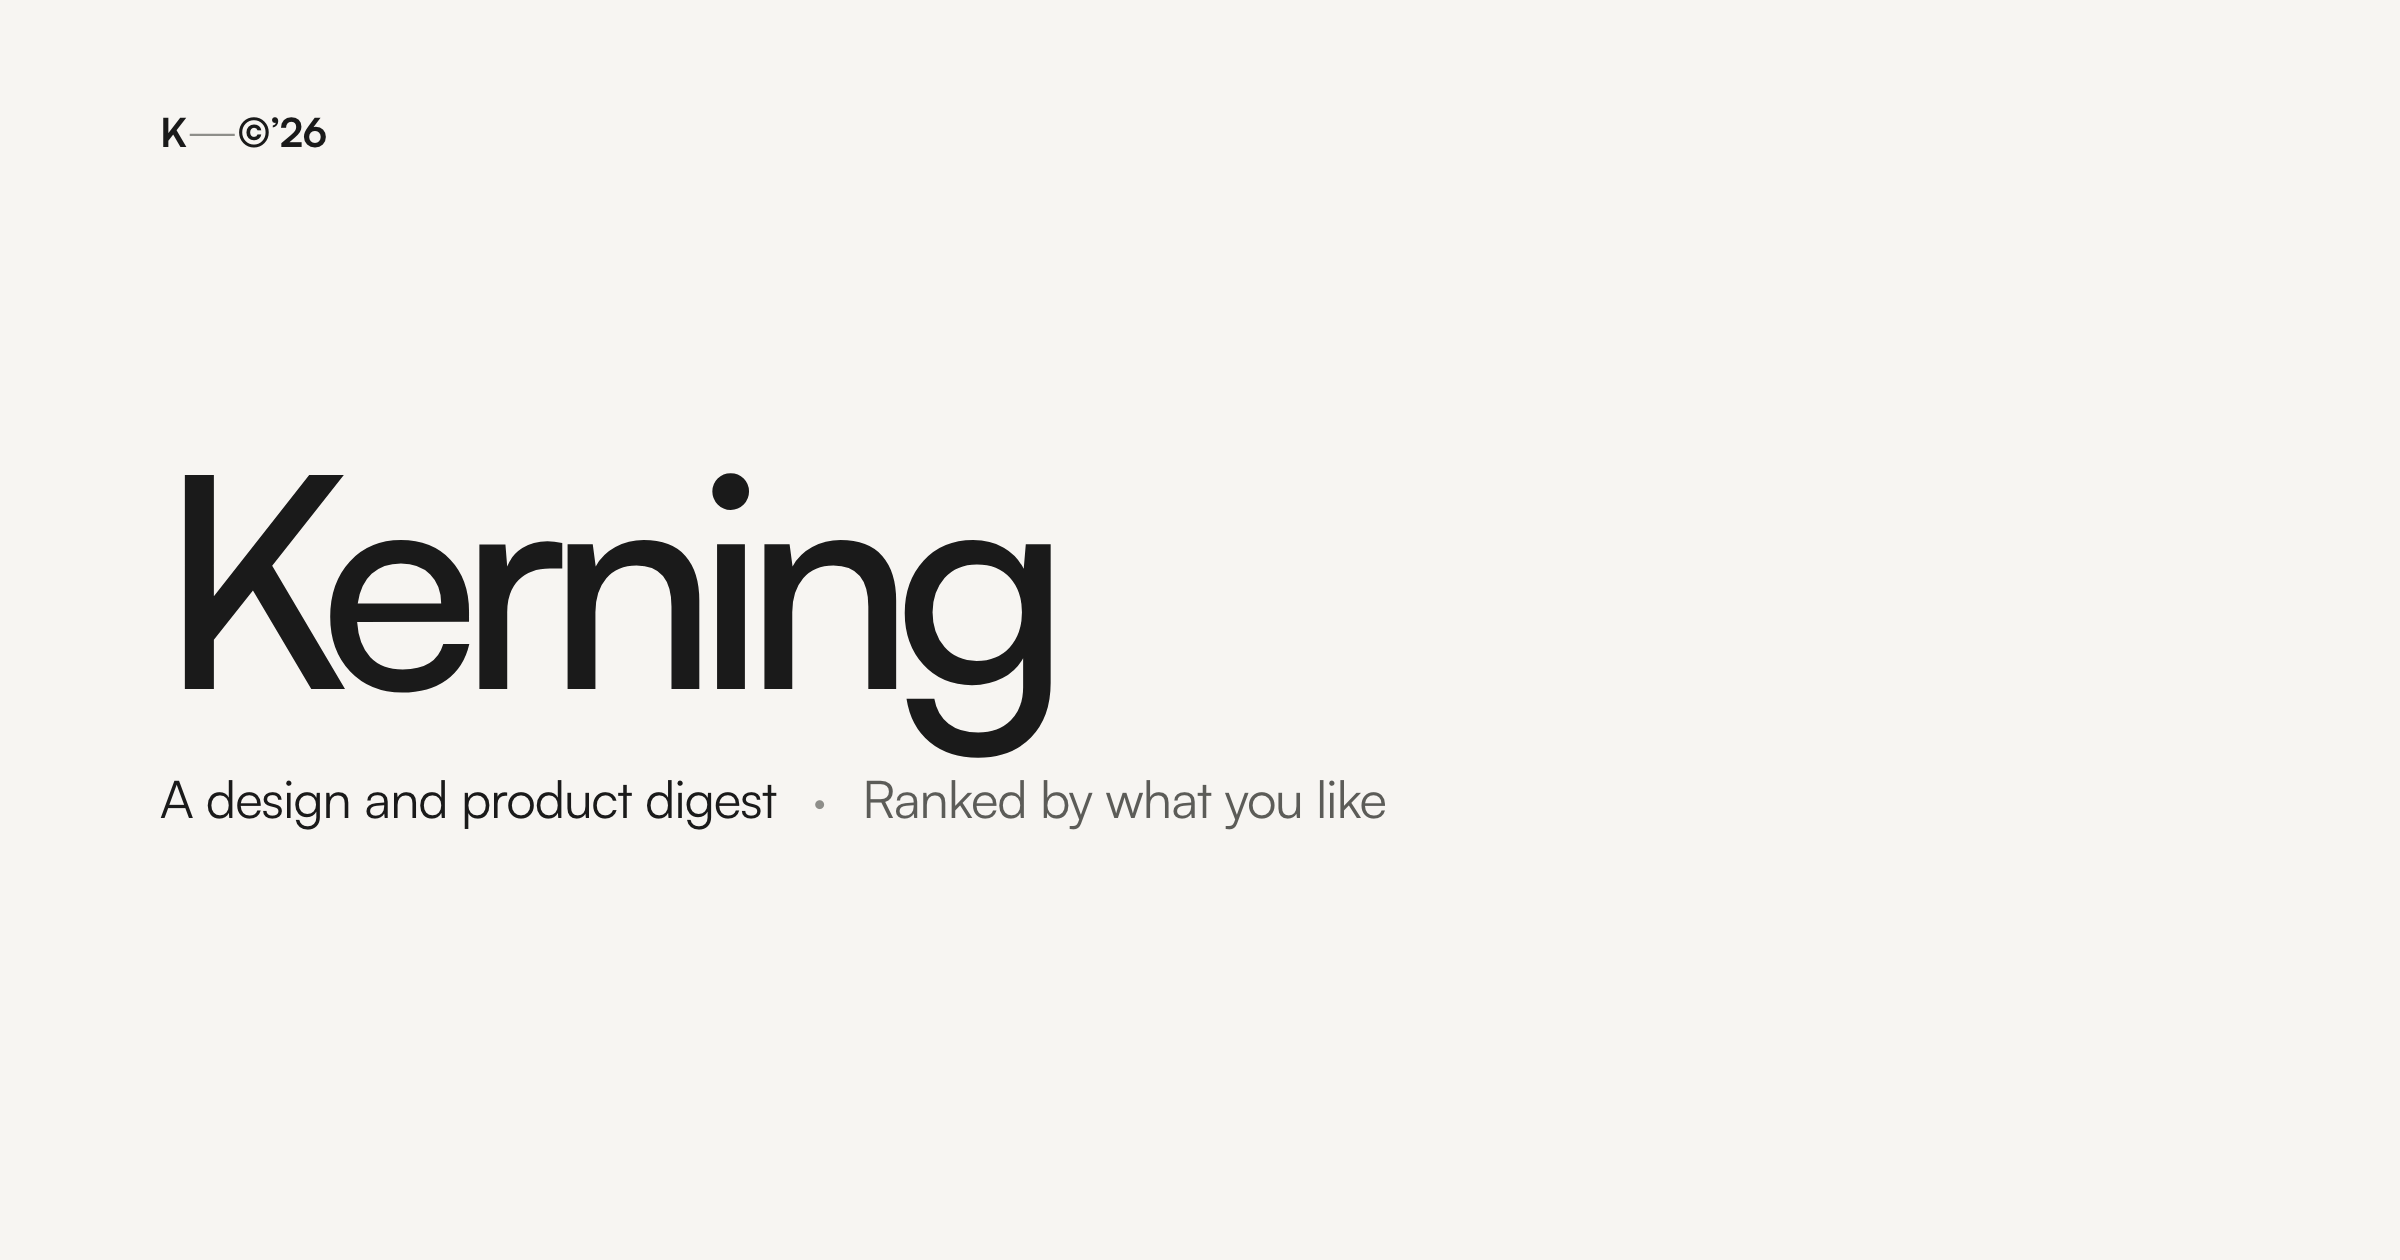
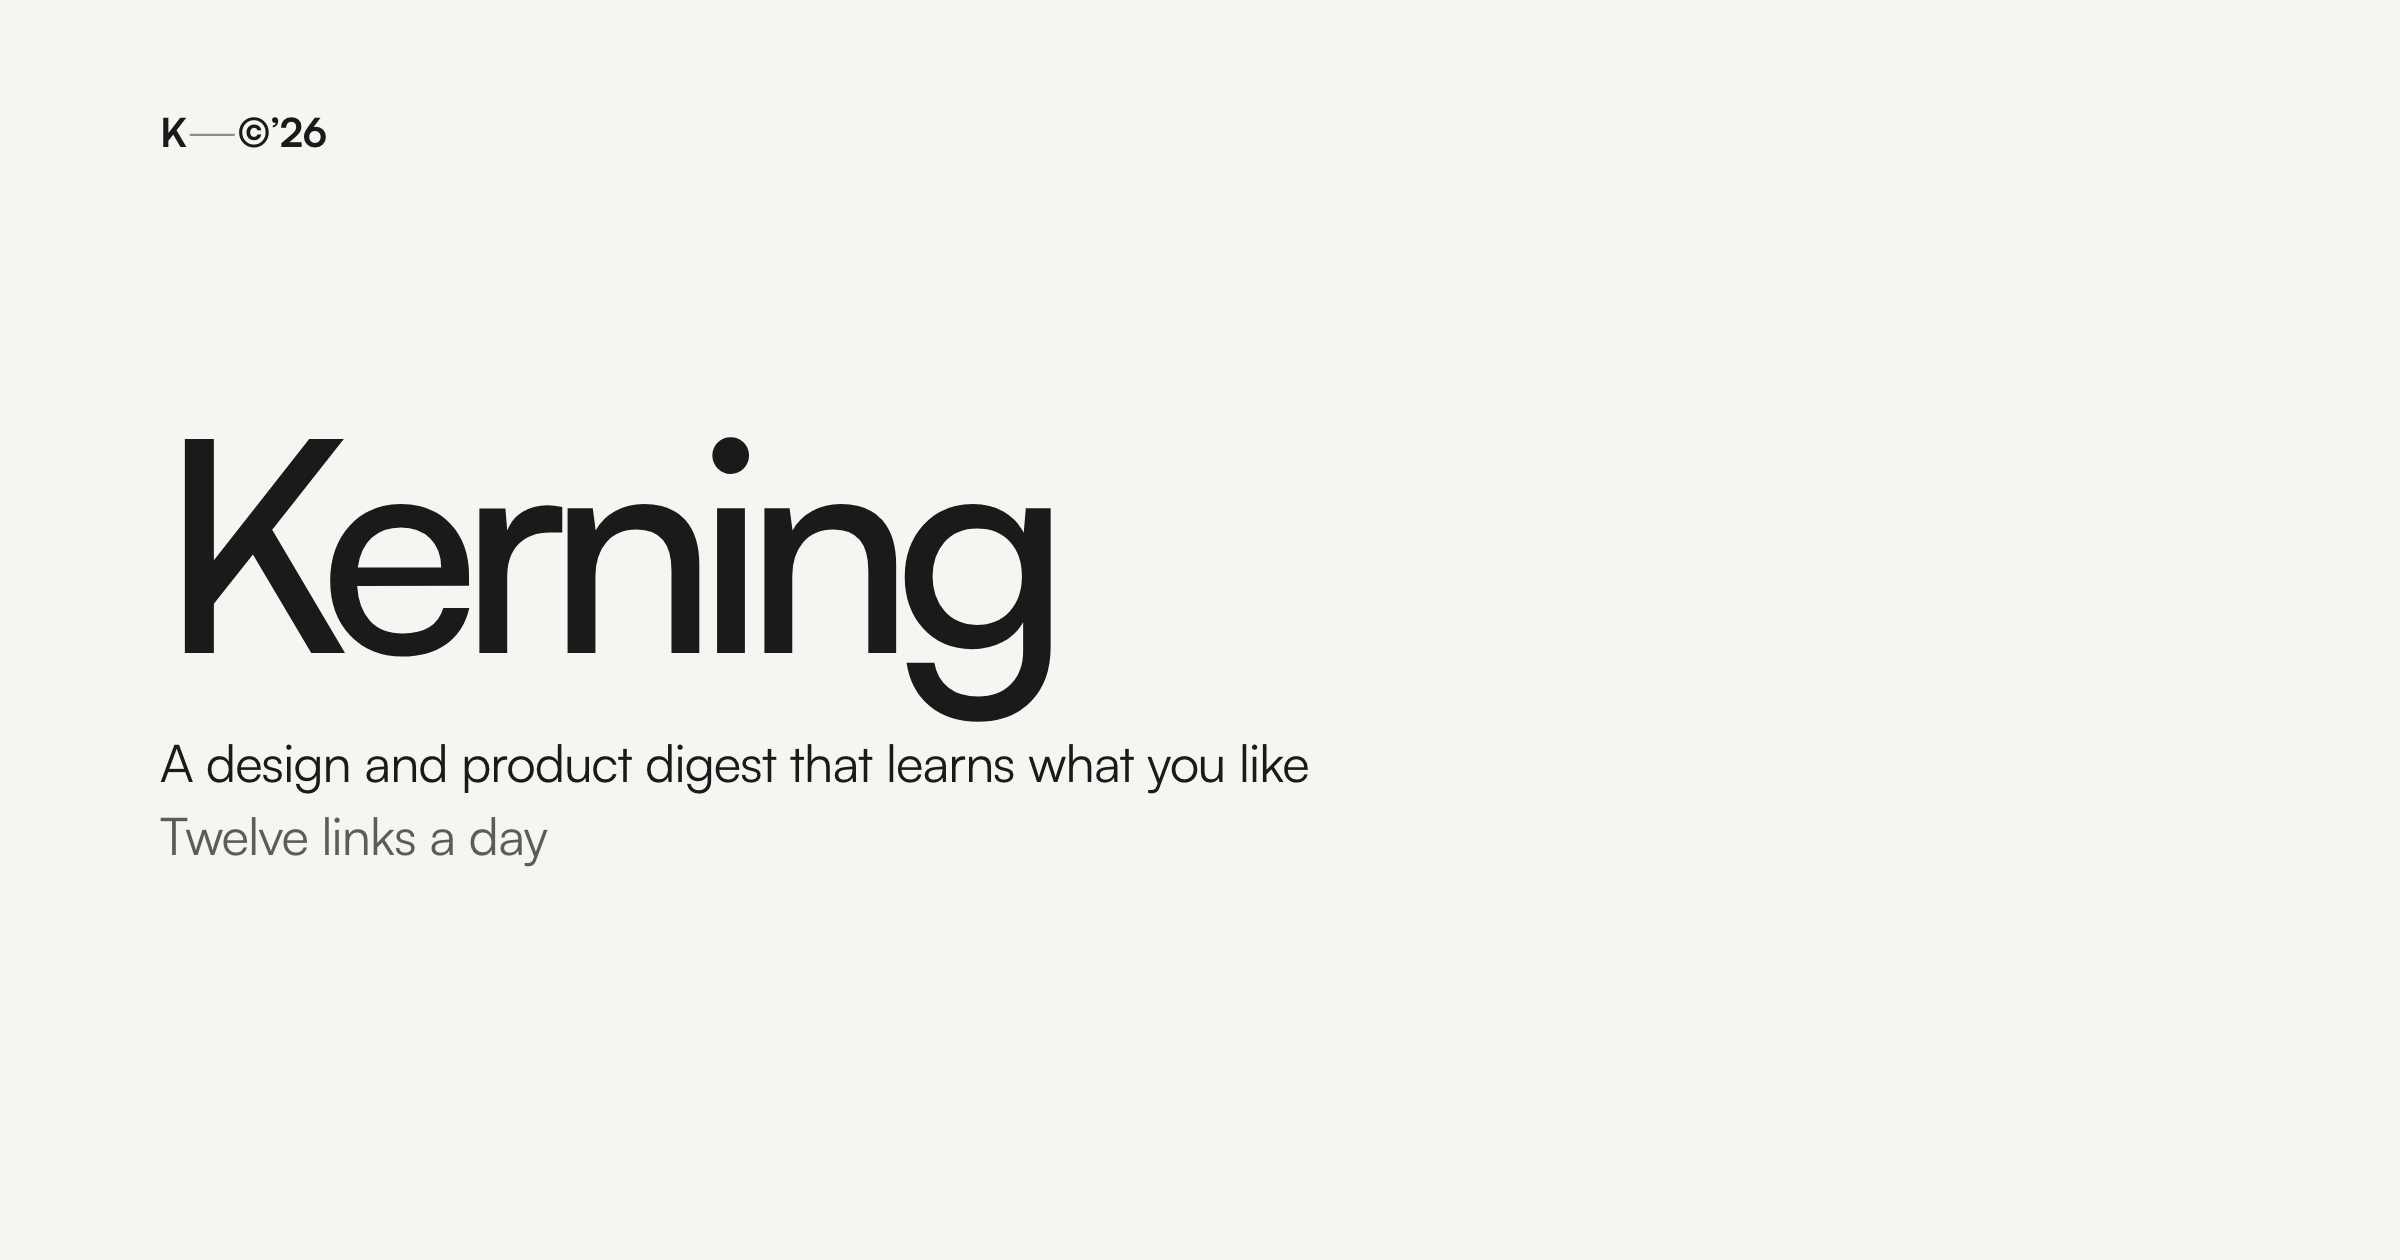
Add llms.txt and refresh tagline to 'twelve links a day'
Update meta tags, JSON-LD, and OG image to match.

Changed region(s): [[0.0625, 0.3405, 0.5938, 0.681], [0.0625, 0.3405, 0.0938, 0.3714]]

diff --git a/index.html b/index.html
@@ -3,21 +3,44 @@
 <head>
 <meta charset="utf-8">
 <meta name="viewport" content="width=device-width, initial-scale=1">
-<title>Kerning — design and product digest</title>
-<meta name="description" content="A design and product digest. Ranked by what you like.">
-<meta property="og:title" content="Kerning — design and product digest">
-<meta property="og:description" content="A design and product digest. Ranked by what you like.">
+<title>Kerning — twelve links a day</title>
+<meta name="description" content="A design and product digest that learns what you like. Twelve links a day.">
+<meta property="og:title" content="Kerning — twelve links a day">
+<meta property="og:description" content="A design and product digest that learns what you like. Twelve links a day.">
 <meta property="og:type" content="website">
 <meta property="og:image" content="og-image.png">
 <meta property="og:image:type" content="image/png">
 <meta property="og:image:width" content="2400">
 <meta property="og:image:height" content="1260">
-<meta property="og:image:alt" content="Kerning — a design and product digest">
+<meta property="og:image:alt" content="Kerning — a design and product digest that learns what you like. Twelve links a day.">
 <meta name="twitter:card" content="summary_large_image">
+<meta name="twitter:title" content="Kerning — twelve links a day">
+<meta name="twitter:description" content="A design and product digest that learns what you like. Twelve links a day.">
 <meta name="twitter:image" content="og-image.png">
+<meta name="twitter:image:alt" content="Kerning — a design and product digest that learns what you like. Twelve links a day.">
 <link rel="icon" href="favicon.svg" type="image/svg+xml">
 <link rel="icon" href="favicon.png" type="image/png" sizes="32x32">
 <link rel="apple-touch-icon" href="apple-touch-icon.png">
+<link rel="describedby" href="llms.txt">
+<link rel="alternate" type="text/markdown" href="digest.md" title="Current digest">
+<meta name="apple-mobile-web-app-title" content="Kerning">
+<script type="application/ld+json">
+{
+  "@context": "https://schema.org",
+  "@type": "WebApplication",
+  "name": "Kerning",
+  "alternateName": "Kerning — twelve links a day",
+  "description": "A design and product digest that learns what you like. Twelve links a day.",
+  "applicationCategory": "NewsApplication",
+  "operatingSystem": "Any",
+  "offers": { "@type": "Offer", "price": "0", "priceCurrency": "USD" },
+  "author": {
+    "@type": "Person",
+    "name": "Martin Andrle",
+    "url": "https://martinandrle.com/"
+  }
+}
+</script>
 <link rel="preconnect" href="https://api.fontshare.com" crossorigin>
 <link href="https://api.fontshare.com/v2/css?f[]=satoshi@400,500,700&display=swap" rel="stylesheet">
 <style>
@@ -685,9 +708,9 @@
   <header class="hero">
     <h1>Kerning</h1>
     <p class="hero-role">
-      A design and product digest
+      A design and product digest that learns what you&nbsp;like
       <span class="hero-dot" aria-hidden="true">·</span>
-      <span class="mute">Ranked by what you&nbsp;like</span>
+      <span class="mute">Twelve links a&nbsp;day</span>
     </p>
   </header>
 
